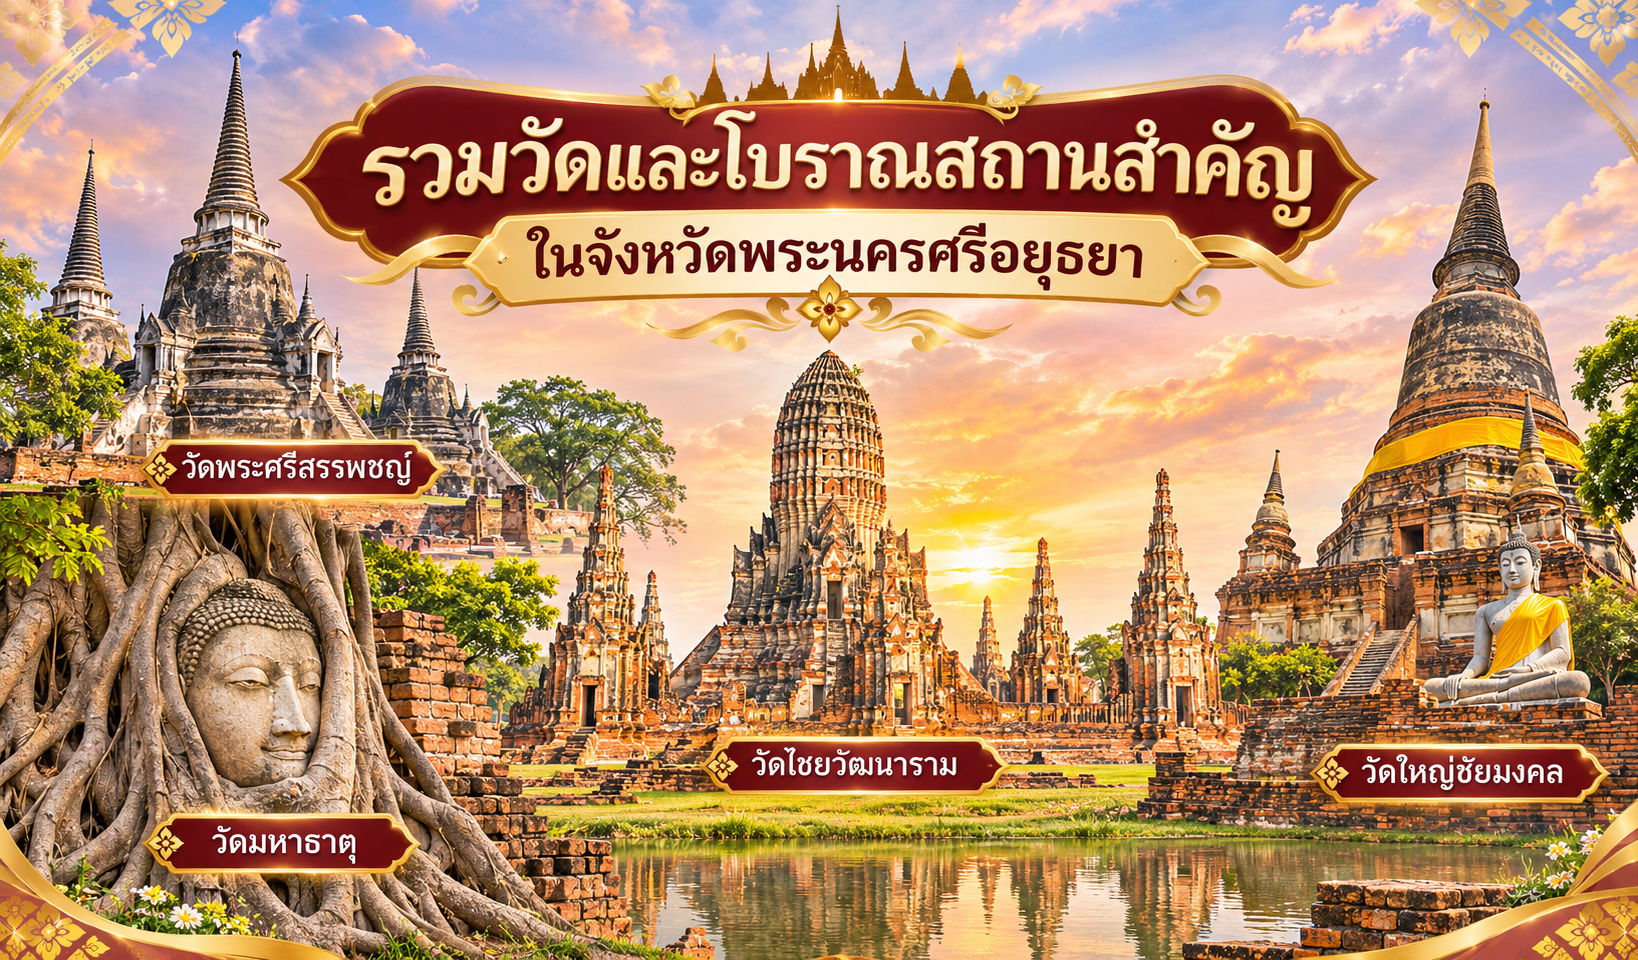
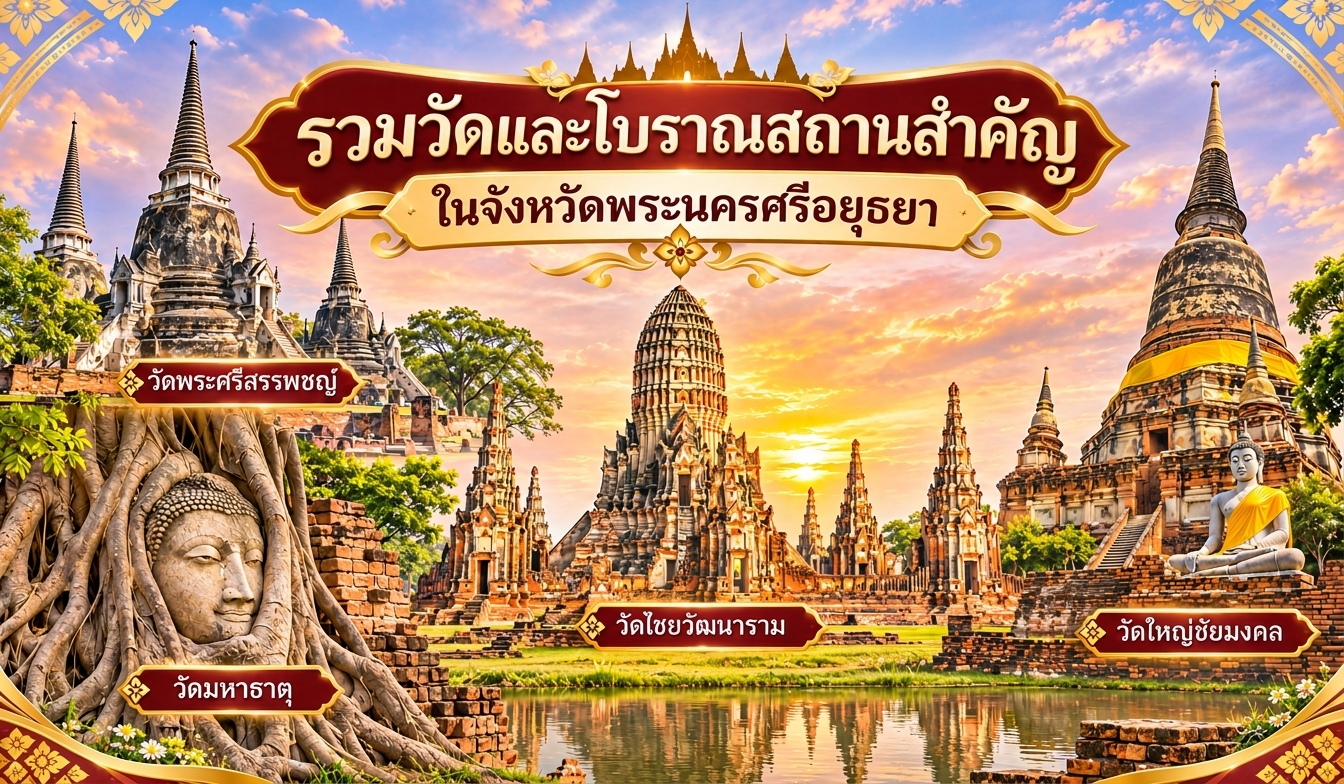
edit-bghome

diff --git a/index.html b/index.html
@@ -8,6 +8,25 @@
 	<link rel="stylesheet" href="css/style.css" type="text/css">
 	<link rel="stylesheet" type="text/css" href="css/mobile.css">
 	<script src="js/mobile.js" type="text/javascript"></script>
+    <style>
+        body {
+    margin: 0;
+    padding: 0;
+}
+
+.home-image {
+    width: 100vw;
+    max-width: none;
+    margin-left: calc(50% - 50vw);
+    overflow: hidden;
+}
+
+.home-image img {
+    width: 100%;
+    height: auto;
+    display: block;
+}
+    </style>
 </head>
 <body>
 	<div id="page">
@@ -41,12 +60,9 @@
 			</div>
 		</div>
 		<div id="body" class="home">
-			<!-- <div class="header">
-				<img src="images/bg-home.jpg" alt="">
-				<div>
-					<a href="product.html">Freeze Delight</a>
-				</div>
-			</div> -->
+                    <div class="home-image">
+            <img src="images/bg-home-new.png" alt="">
+        </div>
 			<div class="body">
 				<div>
 					<div>

diff --git a/css/style.css b/css/style.css
@@ -21,6 +21,17 @@ a:active {
 img {
 	border: none;
 }
+
+/* เพิ่มใหม่เอง */
+
+/* .bg-home {
+    display: block;
+    width: 100%;
+    height: 100vh;
+    object-fit: cover;
+} */
+
+/* เพิ่มใหม่เอง */
 /*-------------------------------------------FONTS---------------------------------------------*/
 @font-face {
 	font-family: 'roboto-regular-webfont';
